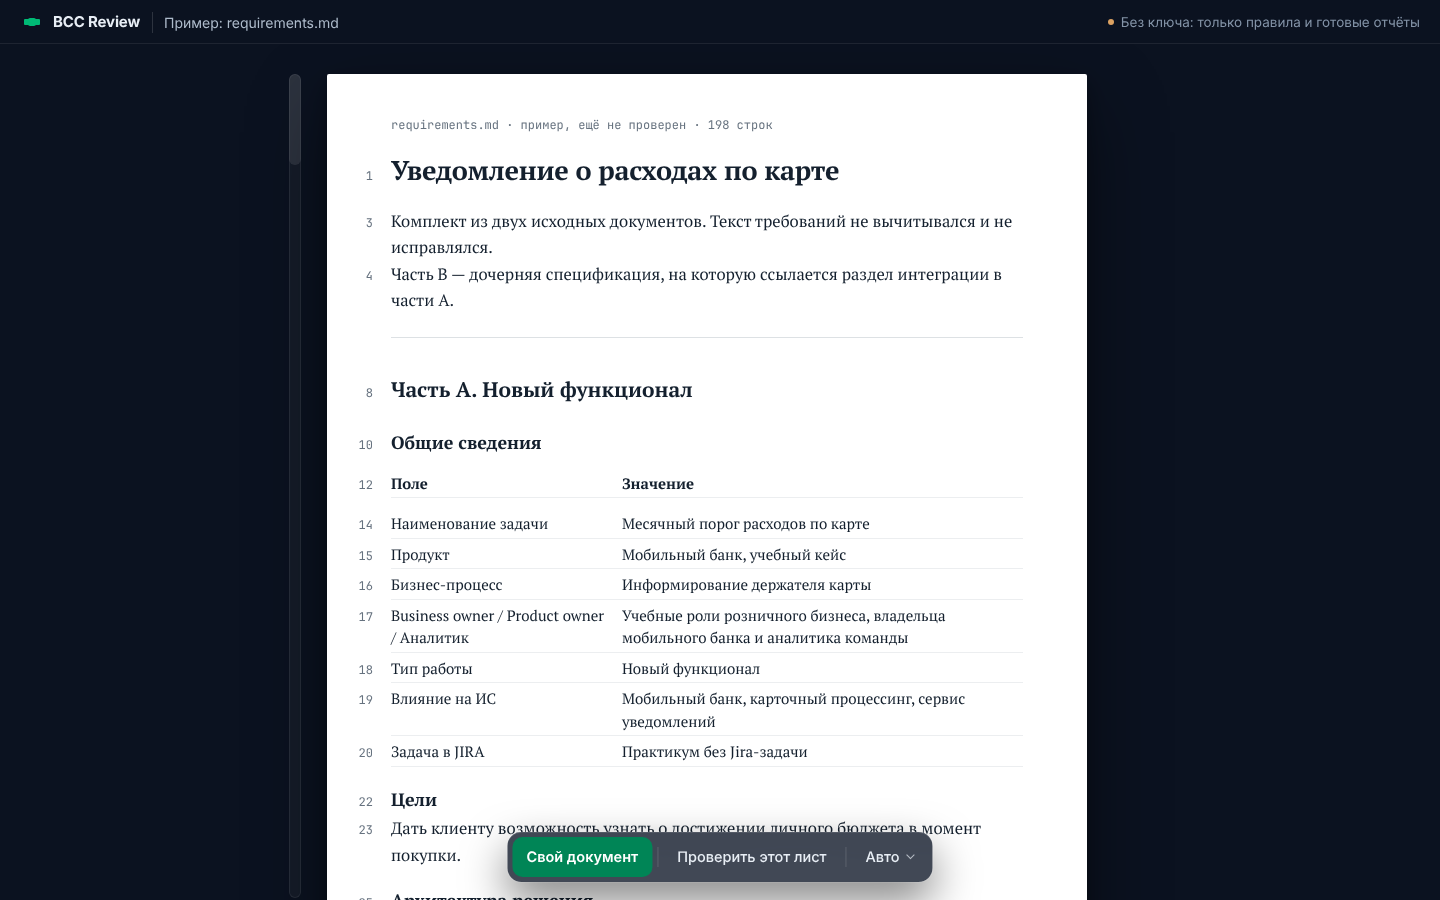
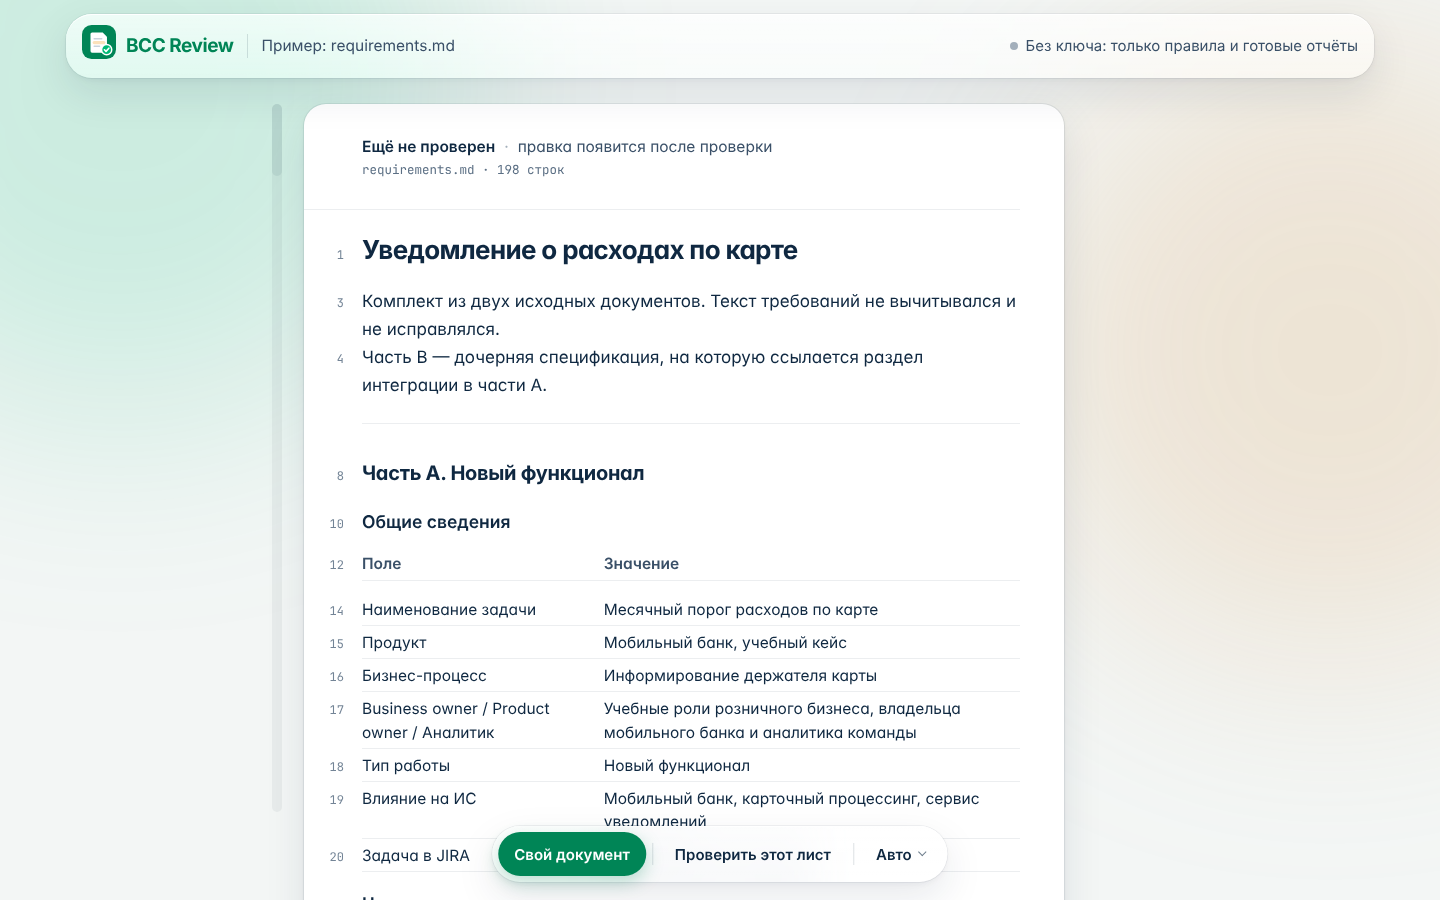
№39 v3: поля с легендой, шапки листа и полей на одной линии, совместимость с Python 3.11, снимки v3
Claude-Session: https://claude.ai/code/session_01DNYQd4mHxUc8TtEyFGFm7K

diff --git a/src/bcc_review/v2/web/assets/tokens.css b/src/bcc_review/v2/web/assets/tokens.css
@@ -101,8 +101,8 @@ html{-webkit-text-size-adjust:100%;color-scheme:light;background:var(--b-canvas)
   box-shadow:0 0 0 1px var(--b-hair),var(--b-shadow-2);font:17px/1.65 var(--b-font);font-feature-settings:"cv11","tnum" 0}
 .b-sheet ::selection{background:rgba(0,185,117,.18)}
 .b-sheet a{color:var(--b-green-ink)}
-.b-sheet-top{display:flex;flex-direction:column;gap:4px;margin:0 0 22px;padding:22px 0 18px var(--b-gutter);
-  box-shadow:inset 0 -1px 0 var(--b-hair)}
+.b-sheet-top{display:flex;flex-direction:column;justify-content:center;gap:4px;min-height:var(--b-top-h,106px);margin:0 0 22px;
+  padding:18px 0 16px var(--b-gutter);box-shadow:inset 0 -1px 0 var(--b-hair)}
 .b-verdict{display:flex;flex-wrap:wrap;align-items:baseline;gap:4px 0;font-size:15.5px;line-height:1.4;color:var(--b-ink-2)}
 .b-verdict>span+span::before{content:"·";margin:0 9px;color:var(--b-ink-4)}
 .b-verdict .main{color:var(--b-ink);font-weight:600}
@@ -144,6 +144,16 @@ html{-webkit-text-size-adjust:100%;color-scheme:light;background:var(--b-canvas)
 
 /* ── заметки на полях: вторая бумага справа ── */
 .b-margin{background:var(--b-paper);border-radius:var(--b-r-lg);box-shadow:0 0 0 1px var(--b-hair),var(--b-shadow-1)}
+.b-margin-head{display:flex;flex-direction:column;justify-content:center;min-height:var(--b-top-h,106px);padding:18px 20px 16px;
+  box-shadow:inset 0 -1px 0 var(--b-hair)}
+.b-margin-head>b{display:block;font-size:15.5px;line-height:1.4;font-weight:600;color:var(--b-ink)}
+.b-legend{display:flex;flex-wrap:wrap;gap:2px 14px;margin-top:6px;font-size:13.5px;color:var(--b-ink-2)}
+.b-legend .lg{display:inline-flex;align-items:center;gap:7px}
+.b-legend .lg::before,.b-note b::before{content:"";flex:none;width:7px;height:7px;border-radius:50%;background:transparent;
+  box-shadow:inset 0 0 0 1.5px var(--b-ink-4)}
+.b-legend .crit::before,.b-note.crit b::before{background:var(--b-red);box-shadow:none}
+.b-legend .major::before,.b-note.major b::before{width:12px;height:7px;border-radius:2px;background:var(--b-mark-major);
+  box-shadow:inset 0 0 0 1px rgba(15,40,65,.12)}
 .b-note{position:absolute;z-index:2;top:calc(var(--dy,0px) - 6px);
   left:calc(100% + var(--b-sheet-pr) + var(--b-desk-gap) + 12px);width:calc(var(--b-margin-w) - 24px);
   display:block;margin:0;padding:6px 10px 8px;border:0;border-radius:12px;background:none;text-align:left;cursor:pointer;
@@ -151,10 +161,6 @@ html{-webkit-text-size-adjust:100%;color-scheme:light;background:var(--b-canvas)
   transition:background var(--b-fast) var(--b-ease),opacity var(--b-base) var(--b-ease);
   animation:b-fade var(--b-slow) var(--b-ease) both;animation-delay:calc(var(--i,0) * 30ms + 400ms)}
 .b-note b{display:flex;align-items:center;gap:7px;font:400 12px/1.6 var(--b-mono);color:var(--b-ink-3)}
-.b-note b::before{content:"";flex:none;width:7px;height:7px;border-radius:50%;background:transparent;
-  box-shadow:inset 0 0 0 1.5px var(--b-ink-4)}
-.b-note.crit b::before{background:var(--b-red);box-shadow:none}
-.b-note.major b::before{width:12px;height:7px;border-radius:2px;background:var(--b-mark-major);box-shadow:inset 0 0 0 1px rgba(15,40,65,.12)}
 .b-note .t{display:-webkit-box;-webkit-line-clamp:2;-webkit-box-orient:vertical;overflow:hidden}
 .b-note:hover,.b-note.on{background:var(--b-wash)}
 .b-note.on .t{-webkit-line-clamp:unset}
@@ -254,7 +260,7 @@ html{-webkit-text-size-adjust:100%;color-scheme:light;background:var(--b-canvas)
   .b-line.ok .b-ln::before{margin-right:3px}
   .b-line.h1 .b-tx{font-size:22px}
   .b-line.h2 .b-tx{font-size:18.5px}
-  .b-sheet-top{padding:18px 0 14px var(--b-gutter)}
+  .b-sheet-top{padding:16px 0 14px var(--b-gutter);min-height:0}
   .b-verdict{font-size:14.5px}
   .b-verdict>span:nth-child(3){flex-basis:100%}
   .b-verdict>span:nth-child(3)::before{display:none}

diff --git a/src/bcc_review/v2/web/assets/app.js b/src/bcc_review/v2/web/assets/app.js
@@ -88,7 +88,8 @@
     var notes = Array.prototype.slice.call(sheet.querySelectorAll(".b-note"));
     var layout = function () {
       var wide = window.matchMedia("(min-width: 1241px)").matches;
-      var bottom = -1e9;
+      var head = document.querySelector(".b-margin-head");
+      var bottom = head ? head.offsetHeight + 6 : -1e9;  // поля начинаются под шапкой полей
       notes.forEach(function (n) {
         n.style.removeProperty("--dy");
         if (!wide) return;

diff --git a/src/bcc_review/v2/web/server.py b/src/bcc_review/v2/web/server.py
@@ -182,9 +182,26 @@ def _leaf(j: Job, *, on: bool = False) -> str:
     else:
         label = {"queued": "в очереди", "running": "идёт проверка", "failed": "ошибка прогона"}.get(j.state, j.state)
         line = f'<div class="b-verdict"><span>{e(label)}</span></div>'
-    return (f'<a class="b-leaf{" on" if on else ""}" href="/jobs/{e(j.id)}"{" aria-current=\"page\"" if on else ""}>'
+    cur = ' aria-current="page"' if on else ""
+    return (f'<a class="b-leaf{" on" if on else ""}" href="/jobs/{e(j.id)}"{cur}>'
             f'<span class="b-leaf-t">{e(Path(j.file_name).stem)}</span>{line}'
             f'<span class="b-leaf-m">{e(when)} · {e(_SHORT.get(j.provider, j.provider))}</span></a>')
+
+
+def _margin_head(report: dict[str, Any]) -> str:
+    """Шапка полей: сколько замечаний и вопросов, и легенда отметок — те же знаки, что у заметок."""
+    fs = report.get("findings") or []
+    n = {k: sum(1 for f in fs if f.get("severity") == k) for k in ("critical", "major", "minor")}
+    q = len(report.get("questions") or [])
+    total = len(fs)
+    legend = "".join(
+        f'<span class="lg {c}">{n[k]} {plural(n[k], *w)}</span>' for k, c, w in (
+            ("critical", "crit", ("блокер", "блокера", "блокеров")),
+            ("major", "major", ("существенное", "существенных", "существенных")),
+            ("minor", "minor", ("незначительное", "незначительных", "незначительных"))) if n[k])
+    ask = f' · {q} {plural(q, "вопрос", "вопроса", "вопросов")}' if q else ""
+    return (f'<div class="b-margin-head"><b>{total} {plural(total, "замечание", "замечания", "замечаний")}{ask}</b>'
+            f'<div class="b-legend">{legend}</div></div>')
 
 
 def index_page(app: App, *, error: str = "", provider: str = "", model: str = "") -> str:
@@ -245,7 +262,7 @@ def index_page(app: App, *, error: str = "", provider: str = "", model: str = ""
 <aside class="desk-stack" aria-label="Готовые листы">{stack}</aside>
 <aside class="desk-map" aria-label="Карта листа">{f'<div class="b-map" id="map">{sheet.map}<span class="b-map-view" id="mapview"></span></div>' if sheet else ''}</aside>
 <main class="desk-sheet">{sheet.html if sheet else ''}</main>
-<div class="desk-notes b-margin" aria-hidden="true"></div>
+<div class="desk-notes{' b-margin' if sheet and sheet.notes else ''}">{_margin_head(top["report"]) if top and sheet and sheet.notes else ''}</div>
 </div>
 <div class="veil" id="veil" hidden><div class="veil-sheet"><b>Отпустите файл</b>BCC AI сразу начнёт проверку<small>PDF, Word, Markdown, TXT, HTML · до 20 МБ</small></div></div>"""
     sub = (top or {}).get("name") or (f"Пример: {app.sample.name}" if app.sample else "")
